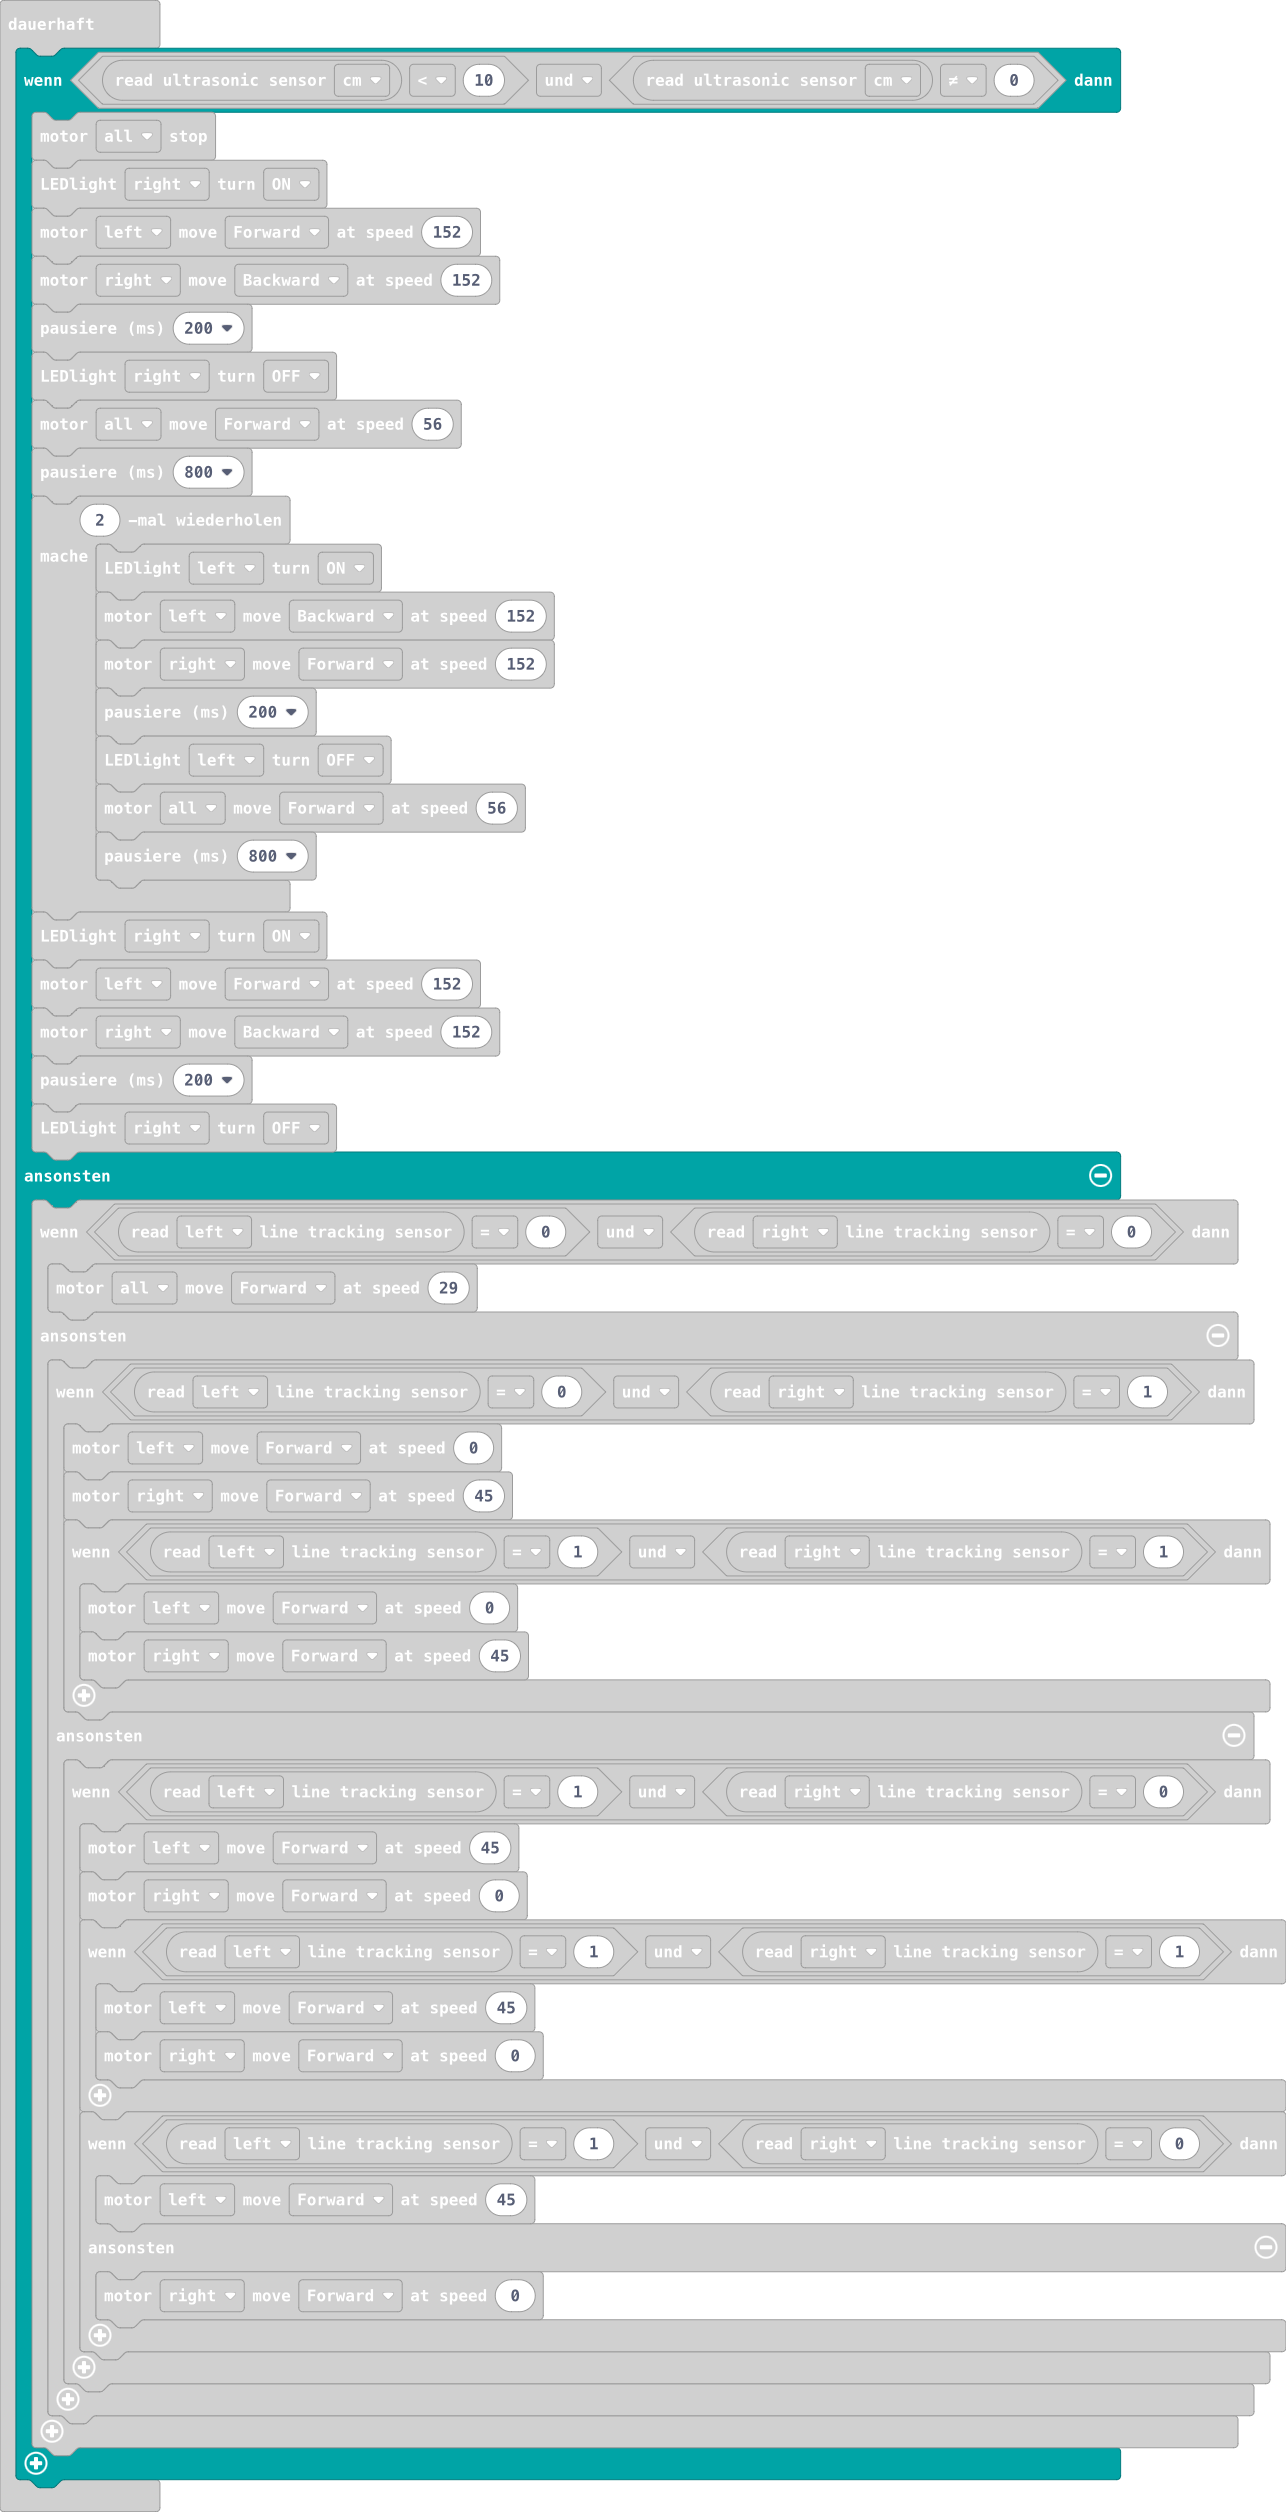
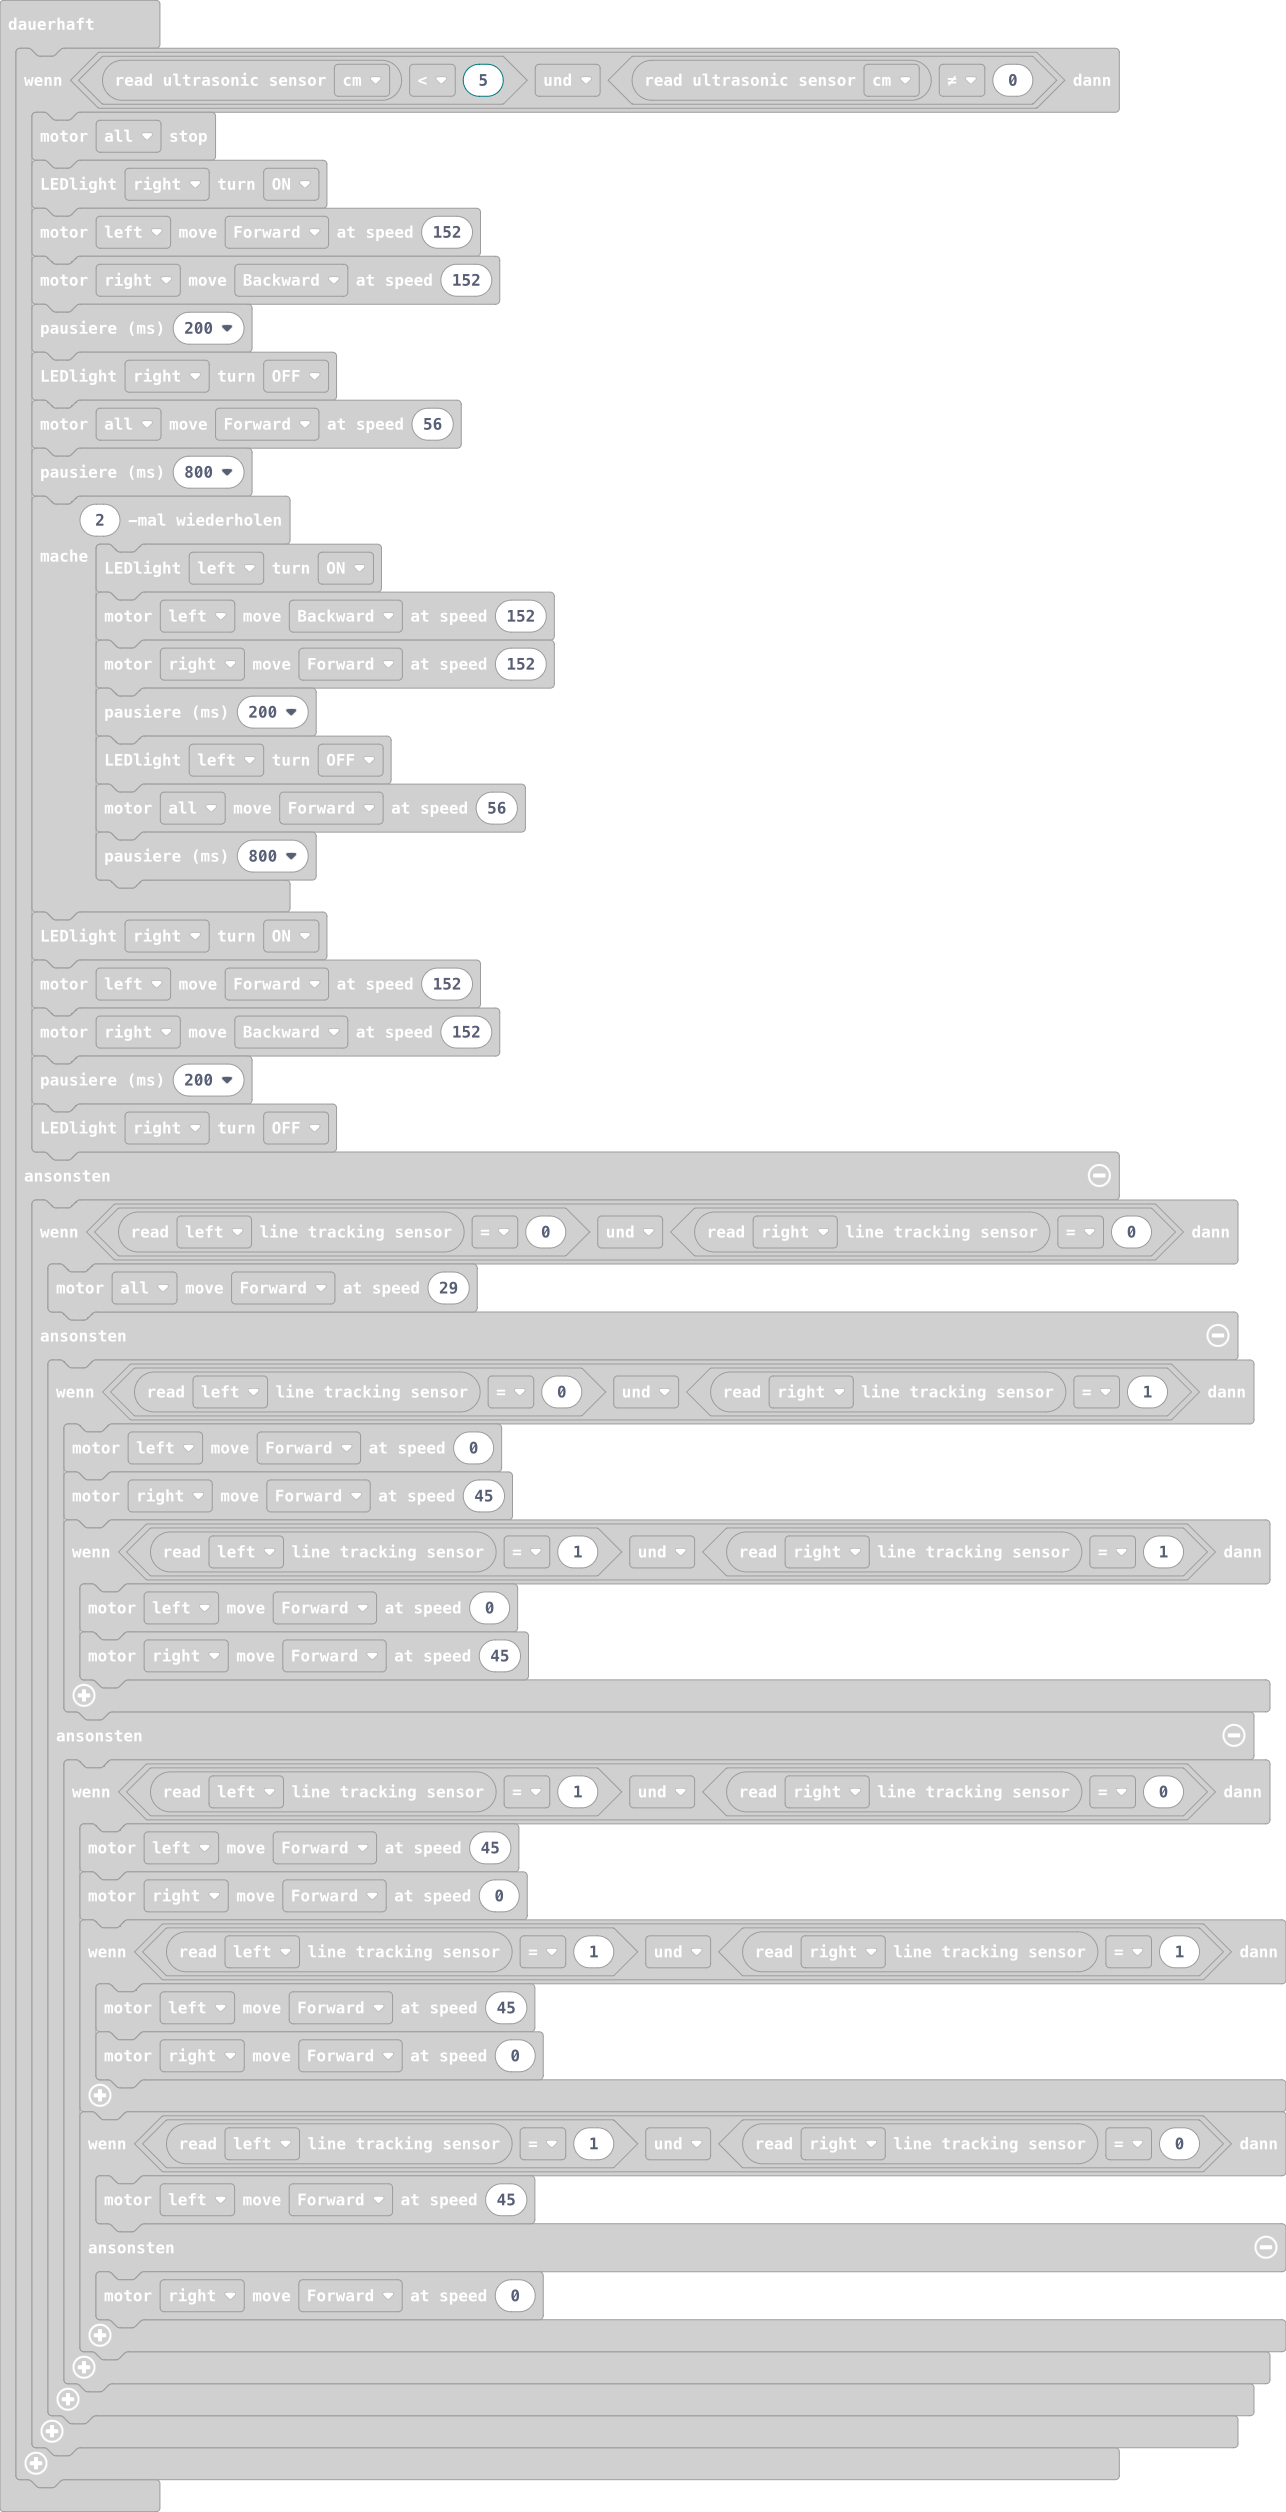
Aktualisiere main.blocks, main.ts

diff --git a/main.ts b/main.ts
@@ -2,7 +2,7 @@ input.onButtonPressed(Button.A, function () {
     maqueen.motorStop(maqueen.Motors.All)
 })
 basic.forever(function () {
-    if (maqueen.Ultrasonic(PingUnit.Centimeters) < 10 && maqueen.Ultrasonic(PingUnit.Centimeters) != 0) {
+    if (maqueen.Ultrasonic(PingUnit.Centimeters) < 5 && maqueen.Ultrasonic(PingUnit.Centimeters) != 0) {
         maqueen.motorStop(maqueen.Motors.All)
         maqueen.writeLED(maqueen.LED.LEDRight, maqueen.LEDswitch.turnOn)
         maqueen.motorRun(maqueen.Motors.M1, maqueen.Dir.CW, 152)
